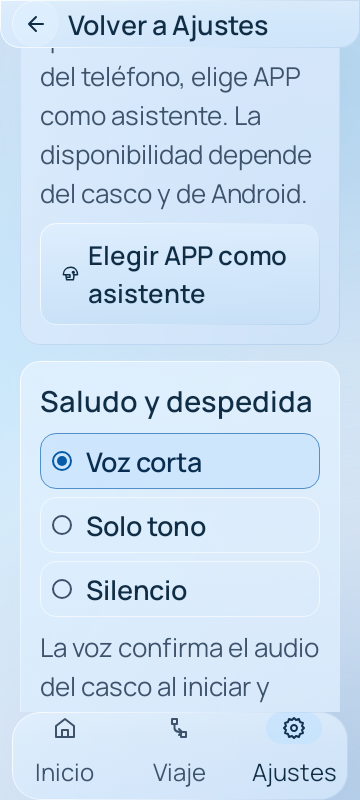
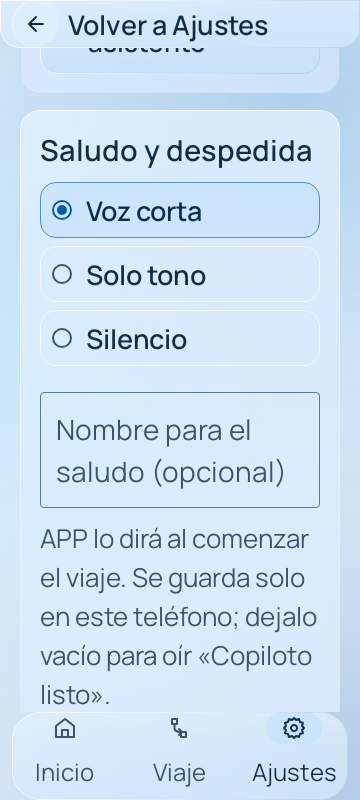
feat(fase-2): personalize optional trip welcome

diff --git a/app/src/main/java/com/gust4av033/appcopilotomoto/presentation/screens/UserSettingsScreens.kt b/app/src/main/java/com/gust4av033/appcopilotomoto/presentation/screens/UserSettingsScreens.kt
@@ -9,6 +9,7 @@ import androidx.compose.foundation.lazy.LazyListScope
 import androidx.compose.foundation.selection.selectable
 import androidx.compose.foundation.selection.selectableGroup
 import androidx.compose.material3.MaterialTheme
+import androidx.compose.material3.OutlinedTextField
 import androidx.compose.material3.RadioButton
 import androidx.compose.material3.Slider
 import androidx.compose.material3.Text
@@ -191,6 +192,7 @@ fun LazyListScope.SettingsScreen(
 private fun GreetingSettingsCard(state: CopilotUiState) {
     val context = LocalContext.current
     var selected by rememberSaveable { mutableStateOf(TripGreetingSettings.selected(context).name) }
+    var nameDraft by rememberSaveable { mutableStateOf(TripGreetingSettings.name(context)) }
     SectionCard(stringResource(R.string.trip_greeting_title)) {
         ChoiceGroup(listOf(ChoiceUi(TripGreetingMode.VOICE_SHORT.name, R.string.trip_greeting_voice),
             ChoiceUi(TripGreetingMode.TONE_ONLY.name, R.string.trip_greeting_tone),
@@ -200,6 +202,14 @@ private fun GreetingSettingsCard(state: CopilotUiState) {
             TripGreetingSettings.select(context, mode)
             selected = mode.name
         }
+        OutlinedTextField(value = nameDraft, onValueChange = { input ->
+            nameDraft = input.take(TripGreetingSettings.MAX_NAME_LENGTH)
+                .filter { it.isLetter() || it == ' ' || it == '-' || it == '\'' }
+            TripGreetingSettings.setName(context, nameDraft)
+        }, modifier = Modifier.fillMaxWidth(), singleLine = true, enabled = !state.busy,
+            label = { Text(stringResource(R.string.trip_greeting_name_label)) },
+            colors = com.gust4av033.appcopilotomoto.presentation.theme.glassTextFieldColors())
+        SupportingText(stringResource(R.string.trip_greeting_name_hint))
         SupportingText(stringResource(R.string.trip_greeting_hint))
     }
 }

diff --git a/app/src/test/java/com/gust4av033/appcopilotomoto/SettingsNavigationUiTest.kt b/app/src/test/java/com/gust4av033/appcopilotomoto/SettingsNavigationUiTest.kt
@@ -68,7 +68,27 @@ class SettingsNavigationUiTest {
         compose.onNodeWithText("Voz corta").assertExists()
         compose.onNodeWithText("Solo tono").assertExists()
         compose.onNodeWithText("Silencio").assertExists()
+        compose.onNodeWithTag("settings_content").performScrollToNode(hasText("Nombre para el saludo (opcional)"))
+        compose.onNodeWithText("Nombre para el saludo (opcional)").assertExists()
+        compose.onNodeWithTag("settings_content").performScrollToNode(hasText("APP lo dirá al comenzar el viaje.", substring = true))
         saveRender("phase2-greeting-activation-200")
+    }
+    @Test fun optionalGreetingNameIsSavedFromSettings() {
+        app(section = SettingsSection.ACTIVATION)
+        compose.onNodeWithTag("settings_content").performScrollToNode(hasText("Nombre para el saludo (opcional)"))
+        compose.onNodeWithText("Nombre para el saludo (opcional)").performTextInput("Bryan")
+        compose.runOnIdle {
+            assertEquals("Bryan", TripGreetingSettings.name(RuntimeEnvironment.getApplication()))
+            TripGreetingSettings.setName(RuntimeEnvironment.getApplication(), "")
+        }
+    }
+    @Test @Config(sdk = [35], qualifiers = "w360dp-h800dp-night")
+    fun optionalGreetingNameIsReadableInDarkMode() {
+        app(section = SettingsSection.ACTIVATION)
+        compose.onNodeWithTag("settings_content").performScrollToNode(hasText("Nombre para el saludo (opcional)"))
+        compose.onNodeWithText("Nombre para el saludo (opcional)").assertExists()
+        compose.onNodeWithTag("settings_content").performScrollToNode(hasText("APP lo dirá al comenzar el viaje.", substring = true))
+        saveRender("phase2-greeting-activation-night")
     }
     @Test fun ordinarySettingsShowThreeGroupsAndNoDeveloperEntry() {
         app()

diff --git a/privacy-policy.html b/privacy-policy.html
@@ -252,7 +252,7 @@
     <section>
       <h2>3. Almacenamiento Local y Aplicaciones de Terceros</h2>
       <ul>
-        <li><strong>Preferencias locales:</strong> Tus ajustes de configuración (como tu aplicación de mapas preferida o destinos rápidos opcionales como "Casa" o "Trabajo") se guardan únicamente en el almacenamiento interno privado de la aplicación dentro de tu teléfono.</li>
+        <li><strong>Preferencias locales:</strong> Tus ajustes de configuración (como tu aplicación de mapas preferida, destinos rápidos opcionales como "Casa" o "Trabajo" y el nombre opcional que escribas para el saludo de voz) se guardan únicamente en el almacenamiento interno privado de la aplicación dentro de tu teléfono. El nombre del saludo no se obtiene de tus contactos ni se envía a servidores propios.</li>
         <li><strong>Historial opcional de Fase 2:</strong> Si activas el contexto GPS, APP conserva muestras y eventos de movimiento del viaje en el almacenamiento privado del teléfono. Puedes exportar el último viaje mediante el menú para compartir de Android; el destino que elijas tendrá su propia política de privacidad.</li>
         <li><strong>Interacción con apps externas:</strong> Cuando ordenas abrir una ruta en <strong>Google Maps</strong> o <strong>Waze</strong>, controlar música en tu reproductor o preparar una llamada en el marcador del teléfono, la aplicación utiliza <em>Intents</em> estándar de Android. El uso posterior de dichas aplicaciones externas se rige por sus respectivas políticas de privacidad.</li>
         <li><strong>Sin publicidad ni rastreadores:</strong> La aplicación no integra SDKs de publicidad, rastreadores comerciales ni telemetría remota.</li>

diff --git a/app/src/main/java/com/gust4av033/appcopilotomoto/TripGreetingPolicy.kt b/app/src/main/java/com/gust4av033/appcopilotomoto/TripGreetingPolicy.kt
@@ -71,6 +71,8 @@ internal class SavedGreetingSessionMarker(context: android.content.Context) : Gr
 
 internal object TripGreetingSettings {
     private const val KEY = "trip_greeting_mode"
+    private const val NAME_KEY = "trip_greeting_name"
+    const val MAX_NAME_LENGTH = 24
     fun selected(context: android.content.Context): TripGreetingMode = runCatching {
         TripGreetingMode.valueOf(context.getSharedPreferences("ui_settings", android.content.Context.MODE_PRIVATE)
             .getString(KEY, TripGreetingMode.VOICE_SHORT.name).orEmpty())
@@ -79,4 +81,14 @@ internal object TripGreetingSettings {
         context.getSharedPreferences("ui_settings", android.content.Context.MODE_PRIVATE)
             .edit().putString(KEY, mode.name).apply()
     }
+    fun name(context: android.content.Context): String = normalizeName(
+        context.getSharedPreferences("ui_settings", android.content.Context.MODE_PRIVATE)
+            .getString(NAME_KEY, null).orEmpty())
+    fun setName(context: android.content.Context, value: String) {
+        context.getSharedPreferences("ui_settings", android.content.Context.MODE_PRIVATE)
+            .edit().putString(NAME_KEY, normalizeName(value)).apply()
+    }
+    fun normalizeName(value: String): String = value.take(MAX_NAME_LENGTH)
+        .filter { it.isLetter() || it == ' ' || it == '-' || it == '\'' }
+        .replace(Regex("\\s+"), " ").trim { !it.isLetter() }
 }

diff --git a/app/src/test/java/com/gust4av033/appcopilotomoto/TripGreetingTextTest.kt b/app/src/test/java/com/gust4av033/appcopilotomoto/TripGreetingTextTest.kt
@@ -1,0 +1,25 @@
+package com.gust4av033.appcopilotomoto
+
+import org.junit.Assert.assertEquals
+import org.junit.Test
+import org.junit.runner.RunWith
+import org.robolectric.RobolectricTestRunner
+import org.robolectric.RuntimeEnvironment
+import org.robolectric.annotation.Config
+
+@RunWith(RobolectricTestRunner::class)
+@Config(sdk = [35])
+class TripGreetingTextTest {
+    private val context get() = RuntimeEnvironment.getApplication()
+
+    @Test fun nameIsOnlyAddedToTheWelcomeAndWarningsRemain() {
+        val ready = TripGreetingDecision(TripAnnouncement.VOICE, lowBatteryPercent = 19,
+            gpsUnavailable = true)
+        assertEquals("Copiloto listo, Bryan. Batería al 19 por ciento. Sin señal GPS para el contexto del viaje.",
+            ready.spokenText(context, starting = true, name = "Bryan"))
+        assertEquals("Copiloto listo. Batería al 19 por ciento. Sin señal GPS para el contexto del viaje.",
+            ready.spokenText(context, starting = true))
+        val finished = TripGreetingDecision(TripAnnouncement.VOICE)
+        assertEquals("Viaje finalizado.", finished.spokenText(context, starting = false, name = "Bryan"))
+    }
+}

diff --git a/app/src/main/java/com/gust4av033/appcopilotomoto/TripVoiceService.kt b/app/src/main/java/com/gust4av033/appcopilotomoto/TripVoiceService.kt
@@ -748,10 +748,13 @@ class TripVoiceService : Service() {
                     .also { mainHandler.postDelayed(it, if (tone.isSuccess) VoiceInteractionTiming.CUE_RELEASE_MS else 0L) }
             }
             TripAnnouncement.VOICE -> {
-                val spoken = decision.spokenText(this, starting = true)
+                val greetingName = TripGreetingSettings.name(this)
+                val spoken = decision.spokenText(this, starting = true, name = greetingName)
                 val started = informationalSpeaker.speak(spoken) { emitted ->
-                    TripTestState.informationalSpeechStatus = if (emitted) "Inicio emitido: $spoken"
-                        else "Inicio cortado por límite o error: $spoken"
+                    TripTestState.informationalSpeechStatus = if (emitted) {
+                        if (greetingName.isBlank()) "Inicio emitido: saludo breve."
+                        else "Inicio emitido: saludo con nombre."
+                    } else "Inicio cortado por límite o error."
                     if (active && generation == cycle) startDetector(provider)
                 }
                 if (!started) {

diff --git a/app/src/main/java/com/gust4av033/appcopilotomoto/TripGreetingText.kt b/app/src/main/java/com/gust4av033/appcopilotomoto/TripGreetingText.kt
@@ -2,9 +2,15 @@ package com.gust4av033.appcopilotomoto
 
 import android.content.Context
 
-internal fun TripGreetingDecision.spokenText(context: Context, starting: Boolean): String {
+internal fun TripGreetingDecision.spokenText(context: Context, starting: Boolean,
+    name: String = ""): String {
     require(announcement == TripAnnouncement.VOICE)
-    val base = context.getString(if (starting) R.string.trip_greeting_ready else R.string.trip_greeting_finished)
+    val safeName = TripGreetingSettings.normalizeName(name)
+    val base = when {
+        starting && safeName.isNotBlank() -> context.getString(R.string.trip_greeting_ready_named, safeName)
+        starting -> context.getString(R.string.trip_greeting_ready)
+        else -> context.getString(R.string.trip_greeting_finished)
+    }
     val additions = if (starting) listOfNotNull(
         lowBatteryPercent?.let { context.getString(R.string.trip_greeting_low_battery, it) },
         if (gpsUnavailable) context.getString(R.string.trip_greeting_no_gps) else null)

diff --git a/app/src/test/java/com/gust4av033/appcopilotomoto/TripGreetingPolicyTest.kt b/app/src/test/java/com/gust4av033/appcopilotomoto/TripGreetingPolicyTest.kt
@@ -55,4 +55,12 @@ class TripGreetingPolicyTest {
         assertTrue(TripGreetingOnce(marker).claim("session-2"))
         assertFalse(TripGreetingOnce(marker).claim(null))
     }
+
+    @Test fun optionalGreetingNameIsShortAndSafeForSpeech() {
+        assertEquals("Juan Carlos", TripGreetingSettings.normalizeName("  Juan   Carlos  "))
+        assertEquals("Ángel", TripGreetingSettings.normalizeName("!!Ángel?"))
+        assertEquals("", TripGreetingSettings.normalizeName("😊!!!"))
+        assertTrue(TripGreetingSettings.normalizeName("A".repeat(80)).length <=
+            TripGreetingSettings.MAX_NAME_LENGTH)
+    }
 }

diff --git a/docs/FASE_2_NAVEGACION_CONTEXTO.md b/docs/FASE_2_NAVEGACION_CONTEXTO.md
@@ -467,10 +467,10 @@ El ajuste está apagado por defecto. En Play aparece deshabilitado; no hay una f
 
 ## Saludo y despedida de viaje
 
-Tras activar la sesión, APP espera como máximo 5 s por una salida Bluetooth válida. En modo voz, detiene la captura del detector antes de decir «Copiloto listo.»; solo agrega batería bajo 20 % sin carga (dato reciente) y una falta de GPS explícitamente confirmada si el contexto GPS está activo. Si la salida no se confirma, no habla por el teléfono: registra la omisión, avisa en Viaje y en la notificación. Un identificador de sesión persistente impide repetir el saludo para el mismo viaje tras reconstruir el servicio.
+Tras activar la sesión, APP espera como máximo 5 s por una salida Bluetooth válida. En modo voz, detiene la captura del detector antes de decir «Copiloto listo.». En Ajustes → Activación se puede escribir un nombre opcional; entonces dice «Copiloto listo, [nombre].». Ese nombre se guarda solo en el teléfono y no se copia al diagnóstico. Solo agrega batería bajo 20 % sin carga (dato reciente) y una falta de GPS explícitamente confirmada si el contexto GPS está activo. Si la salida no se confirma, no habla por el teléfono: registra la omisión, avisa en Viaje y en la notificación. Un identificador de sesión persistente impide repetir el saludo para el mismo viaje tras reconstruir el servicio.
 
 Al detener voluntariamente y con la moto fuera de `EN_MARCHA`, APP concluye el ciclo de audio, restaura la salida y la música antes de la despedida «Viaje finalizado.». Solo agrega distancia y tiempo del resumen local de `TripRepository` si hubo GPS del viaje, al menos 2 muestras, 0,5 km y 2 minutos. No habla ante fin inesperado, movimiento confirmado ni conversación activa. La locución informativa usa `AUDIOFOCUS_GAIN_TRANSIENT_MAY_DUCK`, no pausa música ni abre captura y tiene un límite de 6 s. «Solo tono» reutiliza las señales READY y CANCELLED del casco. «Silencio» omite ambas. Los estados visuales siguen siendo independientes.
 
-La captura de la selección en Ajustes con fuente al 200 % está en [saludo y despedida](images/fase_2_saludo_activacion_200.png).
+Capturas de Ajustes: [fuente al 200 %](images/fase_2_saludo_activacion_200.png) y [modo oscuro](images/fase_2_saludo_activacion_oscuro.png).
 
 Pruebas físicas pendientes en S22+: iniciar y terminar con música, con casco desconectado y con batería baja simulada si Android lo permite. Las pruebas JVM no prueban audibilidad real del casco ni mezcla efectiva con Spotify, Poweramp, Waze o Maps.

diff --git a/AGENTS.md b/AGENTS.md
@@ -85,3 +85,4 @@ Todo dato del contexto lleva `source`, captura monotónica, confianza entre 0 y 
 - `MusicContext`, `BatteryContext` y el estado del ciclo llegan al Context Engine con `ContextValue` y vigencia. Las preguntas deterministas solo usan datos recientes; ausencia y caducidad se responden explícitamente. Referencias conversacionales pertenecen a Fase 3.
 
 - Saludo y despedida (`TripGreetingPolicy`): solo una vez por ID de sesión, tras estabilizar ruta Bluetooth y con tope de espera; nunca voz por el altavoz del teléfono. No iniciar captura mientras se habla. Son informativos, usan ducking y no pausan música. Al cerrar, la recuperación de música precede a la locución; omitir si fin inesperado, moto en marcha o ciclo de conversación activo. El resumen hablado exige datos GPS propios válidos y umbrales de distancia/duración. Registrar emisión y omisión en diagnóstico, y conservar estado en Viaje/notificación.
+- El nombre del saludo es opcional, lo escribe el usuario y se guarda solo en este dispositivo. No lo infieras de contactos, cuentas o nombres del casco ni lo incluyas en el diagnóstico. Batería y GPS solo se anuncian cuando hay una advertencia reciente y confiable.
